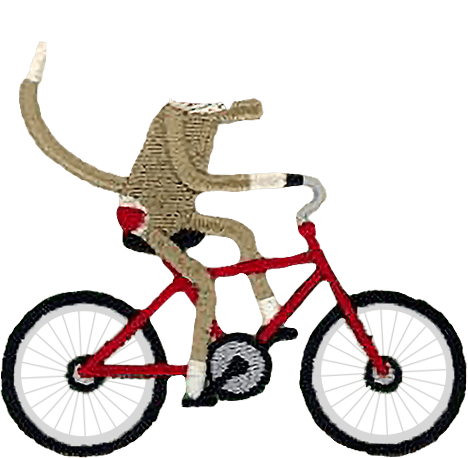
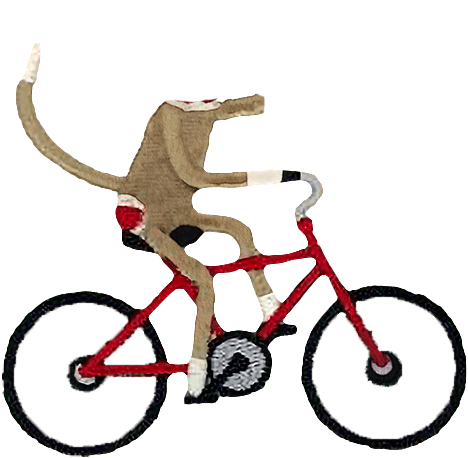
Added wheels

Changed region(s): [[0.0, 0.0917, 1.0, 1.0]]

diff --git a/css/styles.css b/css/styles.css
@@ -15,6 +15,13 @@ html {
   box-sizing: inherit;
 }
 
+/*Specifying fonts:
+
+font-family: 'Rye', cursive;
+font-family: 'Sancreek', cursive;
+font-family: 'Ewert', cursive;
+
+*/
 
 body {
     overflow-x: hidden;
@@ -82,7 +89,7 @@ body {
 
 .frame {
     position: absolute;
-    top: 270px;
+    top: 230px;
     left: 50%;
     transform: translateX(-50%);
     z-index: 99996;
@@ -92,7 +99,7 @@ body {
 
 #myVideo {
     position: absolute;
-    top: 270px;
+    top: 290px;
     left: 50%;
     transform: translateX(-50%);
     height: 466px;
@@ -224,7 +231,7 @@ body {
     bottom: 32px;
     z-index: 999997;
 /*    transform: scaleX(-1);*/
-    animation: ridearound ease 12s forwards;
+    animation: ridearound ease 20s forwards;
 }
 
 .head {
@@ -243,6 +250,22 @@ body {
     transform-origin: 0px 100px;
     z-index: -1;
 
+}
+
+.front-wheel {
+    position: absolute;
+    left: 312px;
+    top: 295px;
+    z-index: -1;
+    animation: spin linear 5s infinite;
+}
+
+.back-wheel {
+    position: absolute;
+    left: 10px;
+    top: 300px;
+    z-index: -1;
+    animation: spin linear 5s infinite;
 }
 
 
@@ -284,6 +307,17 @@ body {
 }
 
 
+@keyframes spin {
+        0% {
+        transform: rotate(0deg);
+    }
+
+    100% {
+        transform: rotate(360deg);
+    }
+}
+
+
 .center-curtains-left {
     position: absolute;
     top: 0;
@@ -292,7 +326,7 @@ body {
     height: 91vh;
     z-index: 99996;
     animation: moveleft ease 5s forwards;
-    animation-delay: 4s;
+    animation-delay: 5s;
 }
 
 
@@ -304,9 +338,8 @@ body {
     height: 91vh;
     z-index: 99996;
     animation: moveright ease 5s forwards;
-    animation-delay: 4s;
+    animation-delay: 5s;
 }
-
 
 
 @keyframes ridearound {
@@ -515,7 +548,7 @@ body {
 
 .video-container {
     position: relative;
-    height: 82vh;
+    height: 95vh;
     overflow: hidden;
 }
 
@@ -597,9 +630,25 @@ body {
     width: 100vw;
     height: auto;
     padding: 70px 0 170px 0;
-    background: linear-gradient(25deg, #aa490d 30%, #eeb51b 70%);
+/*    background: linear-gradient(25deg, #aa490d 30%, #eeb51b 70%), url(../images/grunge-clouds-16.jpg);*/
+    background-image: url("../images/rays.jpg");
+    background-size: cover;
+    background-position: center;
+    background-repeat: no-repeat;
+    background-blend-mode: soft-light;
 }
 
+
+/*
+.frame-curtain-2 {
+    margin-top: -70px;
+    width: 100vw;
+    max-height: 201px;
+    -webkit-filter: drop-shadow(6px 6px 7px rgb(0, 0, 0, .5));
+    filter: drop-shadow(6px 6px 7px rgb(0, 0, 0, .5));
+    z-index: 999999999999;
+}
+*/
 
 
 .circle-container {
@@ -718,70 +767,52 @@ body {
 .shots-words-container {
     position: absolute;
     margin-top: -700px;
+    margin-left: -3%;
 }
 
 .shots-text {
         position: absolute;
-        font-family: 'Anton', sans-serif;
+        font-family: 'Sancreek', sans-serif;
         text-transform: uppercase;
         font-weight: bold;
         color: #a84919;
-/*        color: #fff;*/
-        font-size: 2.5em;
+        color: #212121;
+        font-size: 4em;
         text-align: center;
-        opacity: .8;
-         -webkit-filter: drop-shadow(6px 6px 7px rgb(7, 30, 100, .4));
-        filter: drop-shadow(6px 6px 7px rgb(236, 179, 50, .4));
-        opacity: 0;
+        -webkit-filter: drop-shadow(2px 2px 0px rgb(255, 255, 255));
+        filter: drop-shadow(2px 2px 0px rgb(255, 255, 255));
 }
 
-
-.shot-anim {
-    animation: shots-text-anim 25ms linear forwards;
-    opacity: 0;
-}
-
-
-@keyframes shots-text-anim {
-0% {
-      font-size: 0px;
-    opacity: 1;
-  }
-100% {
-      font-size: 2.5em;
-    opacity: 1;
-  } 
-}
 
 
     .shots-text-1 {
-    transform: rotate(-30deg);
-    margin: -50px 0 0 25vw;
+    transform: rotate(-30deg)!important;
+    margin: -80px 0 0 23vw;
     animation-delay: .7s;
     }
 
 
     .shots-text-2 {
-    transform: rotate(15deg);
-    margin: 150px 0 0 20vw;
+    transform: rotate(15deg)!important;
+    margin: 180px 0 0 18vw;
     animation-delay: 1.7s;
     }
 
 .shots-text-3 {
-    transform: rotate(30deg);
-    margin: -100px 0 0 57vw;
+    transform: rotate(30deg)!important;
+    margin: -120px 0 0 56vw;
         animation-delay: 2s;
     }
 
 .shots-text-4 {
-    transform: rotate(-35deg);
-    margin: 100px 0 0 73vw;
+    transform: rotate(-35deg)!important;
+    margin: 100px 0 0 76vw;
     animation-delay: 2.5s;
     }
 
 .shots-text-5 {
-    transform: rotate(-30deg);
-    margin: 400px 0 0 56vw;
+    transform: rotate(-20deg)!important;
+    margin: 350px 0 0 77vw;
     animation-delay: 2.6s;
     }
 

diff --git a/index.html b/index.html
@@ -2,7 +2,7 @@
 <html lang="en">
 
 <head>
-<title>You be the judge...</title>
+<title>Always a good show...</title>
 <meta charset="utf-8">
 <meta name="handheldfriendly" content="true">
 <meta name="mobileoptimized" content="240">
@@ -10,14 +10,21 @@
 <link rel="stylesheet" href="css/normalize.css">
 <link rel="stylesheet" href="css/styles.css">
 <link href="https://fonts.googleapis.com/css?family=anton&display=swap" rel="stylesheet">
+<link href="https://fonts.googleapis.com/css?family=Ewert|Rye|Sancreek&display=swap" rel="stylesheet">
     
     
 <script> src="//ajax.googleapis.com/ajax/libs/jquery/1.9.1/jquery.min.js"</script>
-    
-  <script src="https://cdnjs.cloudflare.com/ajax/libs/jquery/3.2.1/jquery.min.js"></script>
-    
+<script src="https://cdnjs.cloudflare.com/ajax/libs/jquery/3.2.1/jquery.min.js"></script>
 
+    
+<!--  AOS Scripts   -->
+<script src="https://ajax.googleapis.com/ajax/libs/jquery/3.3.1/jquery.min.js"></script>
+<script src="https://ajax.googleapis.com/ajax/libs/jquery/3.4.1/jquery.min.js"></script>
+    
+<link rel="stylesheet" href="https://unpkg.com/aos@next/dist/aos.css"/>
 
+    
+    
 </head>
 
 <body>
@@ -53,7 +60,7 @@
 <img class="right-main-curtain" src="images/right.png" alt="Theatre Curtains Opening">
     
 <div class="dropFrame">  
-<img class="frame" src="images/frame.png" alt="">
+<img class="frame" src="images/cool-ass-frame.png" alt="">
     
 
     <video height="466" width="323" playsinline autoplay muted loop id="myVideo">
@@ -64,7 +71,11 @@
 </div> 
     
     
-<div class="ride">  
+<div class="ride">
+    
+<img class="back-wheel" src="images/back-wheel.png" alt="Brian on a bike!">
+    
+<img class="front-wheel" src="images/front-wheel.png" alt="Brian on a bike!">
 
 <img class="bike" src="images/bike.png" alt="Brian on a bike!">
     
@@ -139,6 +150,7 @@
 
         
 <div class="shots-section">
+
     
         <img class="big-brian" src="images/brian-with-big-shot.png" alt="Brian with a giant shot of whiskey.">
 
@@ -162,15 +174,13 @@
 </ul>   
     
     
-<!--
-    <div class="shots-words-container">
-    <div class="shots-text-1 shots-text shot-anim">SHOTS!</div>
-    <div class="shots-text-2 shots-text shot-anim">SHOTS!</div>
-    <div class="shots-text-3 shots-text shot-anim">SHOTS!</div>
-    <div class="shots-text-4 shots-text shot-anim">SHOTS!</div>
-    <div class="shots-text-5 shots-text shot-anim">SHOTS!</div>
+   <div class="shots-words-container">
+        <div class="shots-text-1 shots-text" data-aos="fade" data-aos-delay="1000" data-aos-duration="50">SHOTS!</div>
+        <div class="shots-text-2 shots-text" data-aos="fade" data-aos-delay="2000" data-aos-duration="50">SHOTS!</div>
+        <div class="shots-text-3 shots-text" data-aos="fade" data-aos-delay="2300" data-aos-duration="50">SHOTS!</div>
+        <div class="shots-text-4 shots-text" data-aos="fade" data-aos-delay="2900" data-aos-duration="50">SHOTS!</div>
+        <div class="shots-text-5 shots-text" data-aos="fade" data-aos-delay="2950" data-aos-duration="50">SHOTS!</div>
     </div>
--->
     
     
 </div>    
@@ -215,22 +225,15 @@
   }
 })   
     </script>
+        
     
+    <script src="https://unpkg.com/aos@next/dist/aos.js"></script>
+  
     
-<!--
- <script>
-        $(window).scroll(function(){
-  var scroll = $(window).scrollTop();
-  if((scroll > 0)&&(scroll < 400)){
-    $('.shots-text').addClass('shot-anim');
-  }
-  else if(scroll > 400){
-    $('.shots-text').removeClass('shot-anim');
-  }
-})   
-    </script>
--->
-
+    <script>
+    AOS.init();
+  </script>
+    
 
 
 </body>
